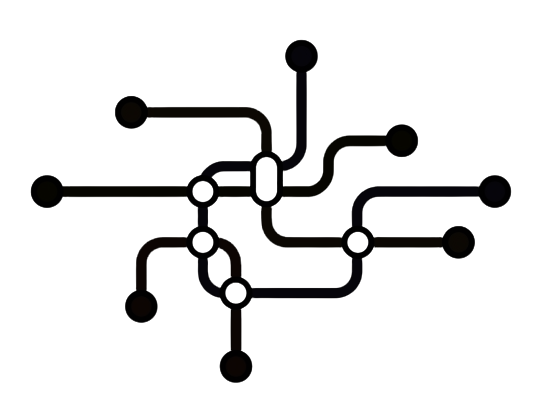
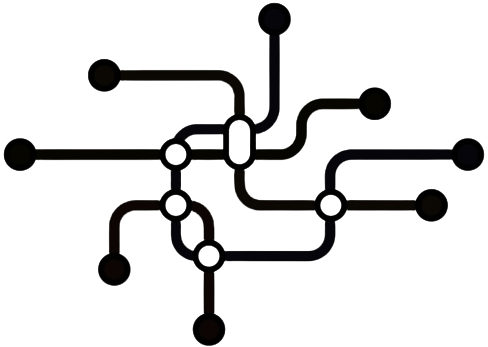
Terminei de arrumar a página Menu Principal

Changed region(s): [[0.0, 0.0, 1.0, 1.0]]

diff --git a/style/style3.css b/style/style3.css
@@ -1,5 +1,7 @@
 .cormenu{
     color: black;
+    font-size: small;
+    margin-bottom: 10px;
 }
 
 .red {
@@ -8,7 +10,7 @@
     border-radius: 40px;
     margin-right: 10px;
     margin-left: 25px;
-    padding: 50px 30px 50px 30px;
+    padding: 50px 40px 50px 40px;
     justify-content: center;
     height: 70px;
 }
@@ -19,7 +21,7 @@
     border-radius: 40px;
     margin-right: 10px;
     margin-left: 10px;
-    padding: 50px 30px 50px 30px;
+    padding: 50px 40px 50px 40px;
     justify-content: center;
     height: 70px;
 }
@@ -30,7 +32,7 @@
     border-radius: 40px;
     margin-right: 10px;
     margin-left: 25px;
-    padding: 50px 20px 50px 20px;
+    padding: 50px 30px 50px 30px;
     justify-content: center;
     height: 70px;
 }
@@ -41,7 +43,7 @@
     border-radius: 40px;
     margin-right: 20px;
     margin-left: 10px;
-    padding: 50px 30px 50px 20px;
+    padding: 50px 37px 50px 37px;
     justify-content: center;
     height: 70px;
 }
@@ -52,7 +54,7 @@
     border-radius: 40px;
     margin-right: 10px;
     margin-left: 25px;
-    padding: 50px 60px 50px 60px;
+    padding: 50px 50px 50px 50px;
     justify-content: center;
     height: 70px;
 }
@@ -64,7 +66,7 @@
     margin-right: 20px;
     margin-left: 10px;
     margin-bottom: 15px;
-    padding: 50px 20px 50px 20px;
+    padding: 50px 30px 50px 30px;
     justify-content: center;
     height: 70px;
 }

diff --git a/public/paginaMenuPrincipal.php b/public/paginaMenuPrincipal.php
@@ -28,34 +28,34 @@
         </div>
         <div class="lado">
             <div class="red">
-                <img src="../asets/imagens/meio/linhas.png" alt="" height= "100px" width= "120px">
+                <img src="../asets/imagens/meio/linhas.png" alt="" height= "80px" width= "100px">
                 <a href="paginaSelecioneLinhas.php"><p class="cormenu">Linhas</p></a>
             </div>
 
             <div class="red1">
-                <img src="../asets/imagens/meio/tremmenu.png" alt="" height= "100px" width= "120px">
+                <img src="../asets/imagens/meio/tremmenu.png" alt="" height= "80px" width= "100px">
                 <a href="paginaTrensAtivados1.php"><p class="cormenu">Trens</p></a>
             </div>
         </div>
         <div class="lado">
             <div class="red2">
-                <img src="../asets/imagens/meio/analisemenu.png" alt="" height= "100px" width= "120px">
+                <img src="../asets/imagens/meio/analisemenu.png" alt="" height= "70px" width= "70px">
                 <a href="paginaControledeInspeção.php"><p class="cormenu">Controle de inspeção</p></a>
             </div>
 
             <div class="red3">
-                <img src="../asets/imagens/meio/controledeinspecaomenu.png" alt="" height= "100px" width= "120px">
+                <img src="../asets/imagens/meio/controledeinspecaomenu.png" alt="" height= "70px" width= "80px">
                 <a href="paginaRelatorioeAnalises.php"><p class="cormenu">Relatório e análises </p></a>
             </div>
         </div>
         <div class="lado">
             <div class="red4">
-                <img src="../asets/imagens/meio/ouvidoriamenu.png" alt="" height= "100px" width= "120px">
+                <img src="../asets/imagens/meio/ouvidoriamenu.png" alt="" height= "80px" width= "80px">
                 <a href="paginaOuvidoriaGeral.php"><p class="cormenu">Ouvidoria</p></a>
             </div>
 
             <div class="red5">
-                <img src="../asets/imagens/meio/alertamenu.png" alt="" height= "100px" width= "120px">
+                <img src="../asets/imagens/meio/alertamenu.png" alt="" height= "80px" width= "80px">
                 <a href="paginaAlertaseNotificacoes1.php"><p class="cormenu">Alertas e Notificações</p></a>
             </div>
             <br>
